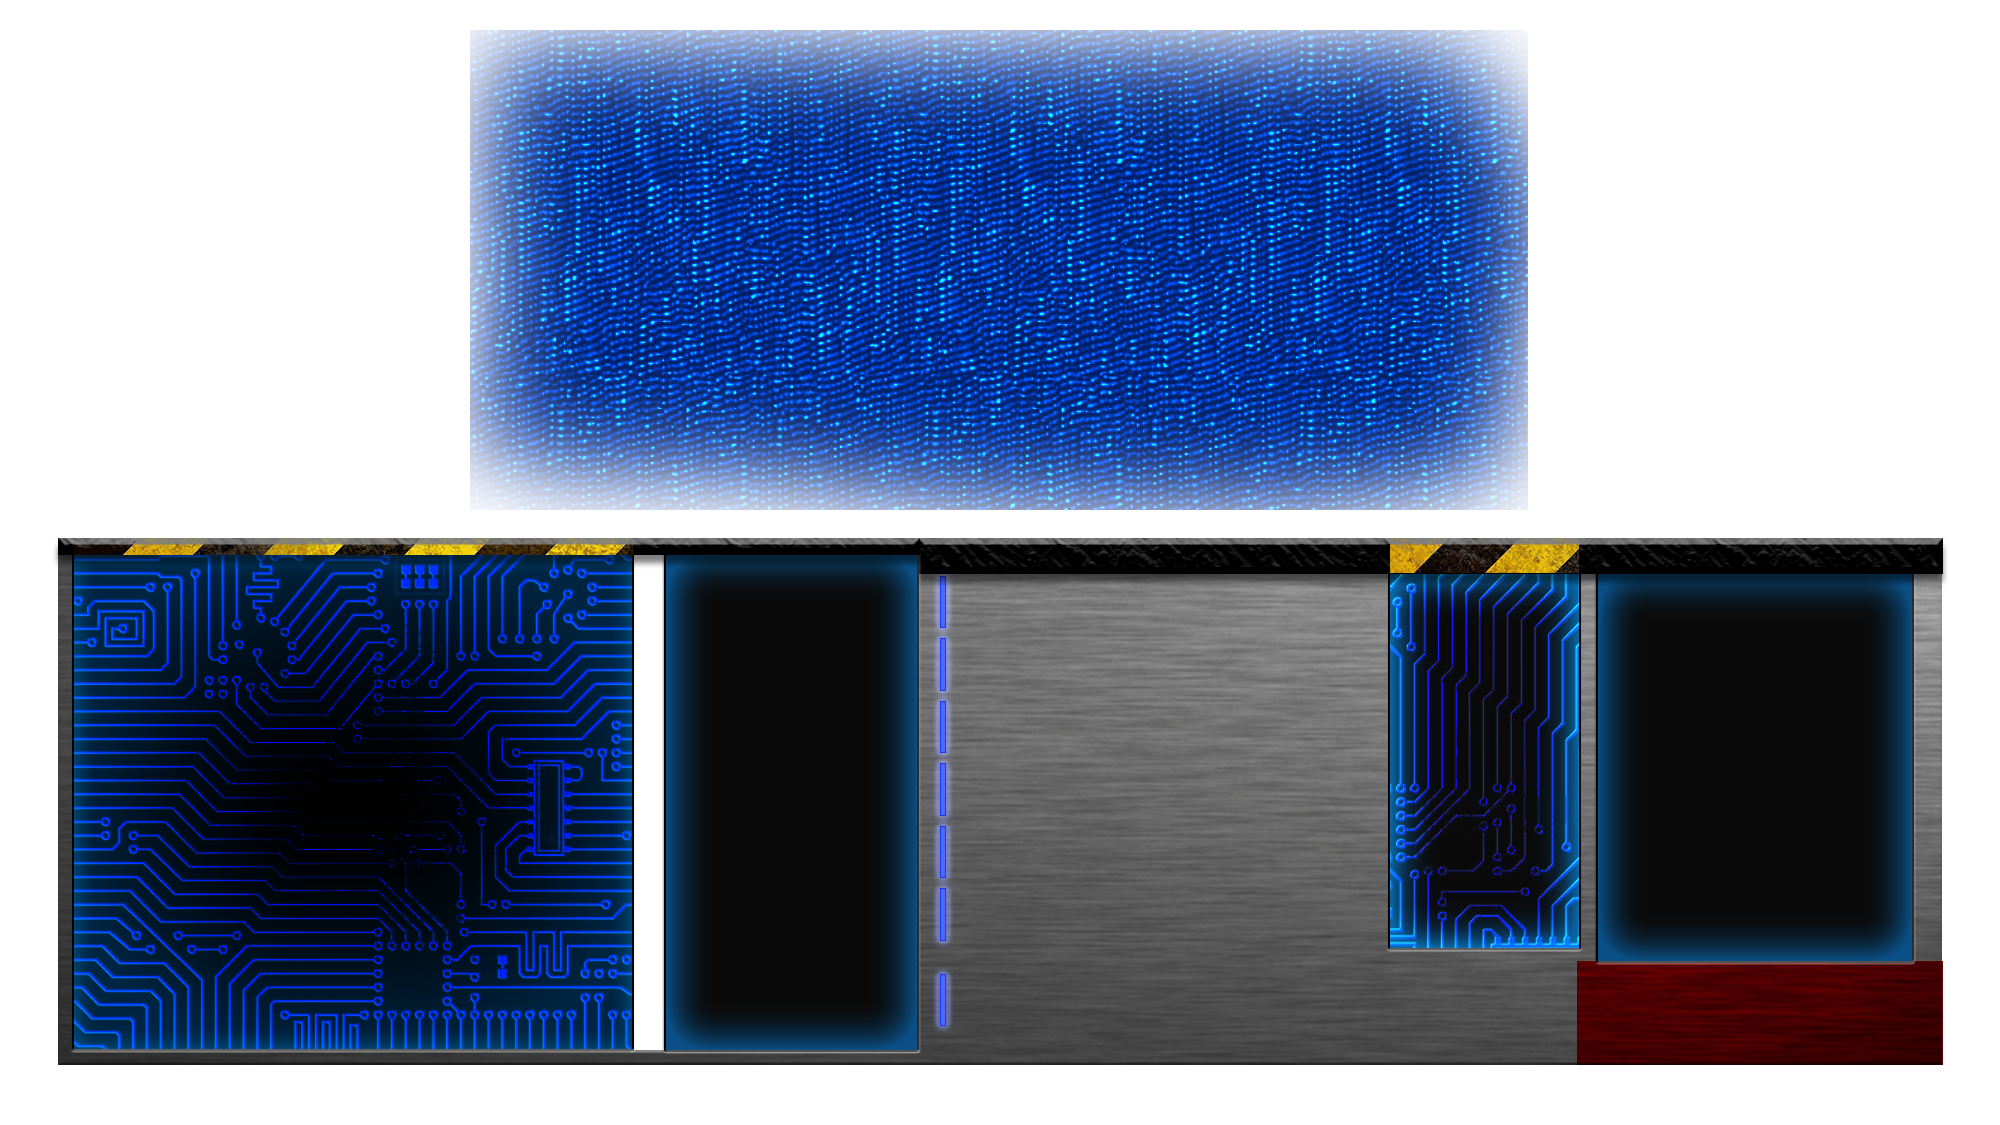
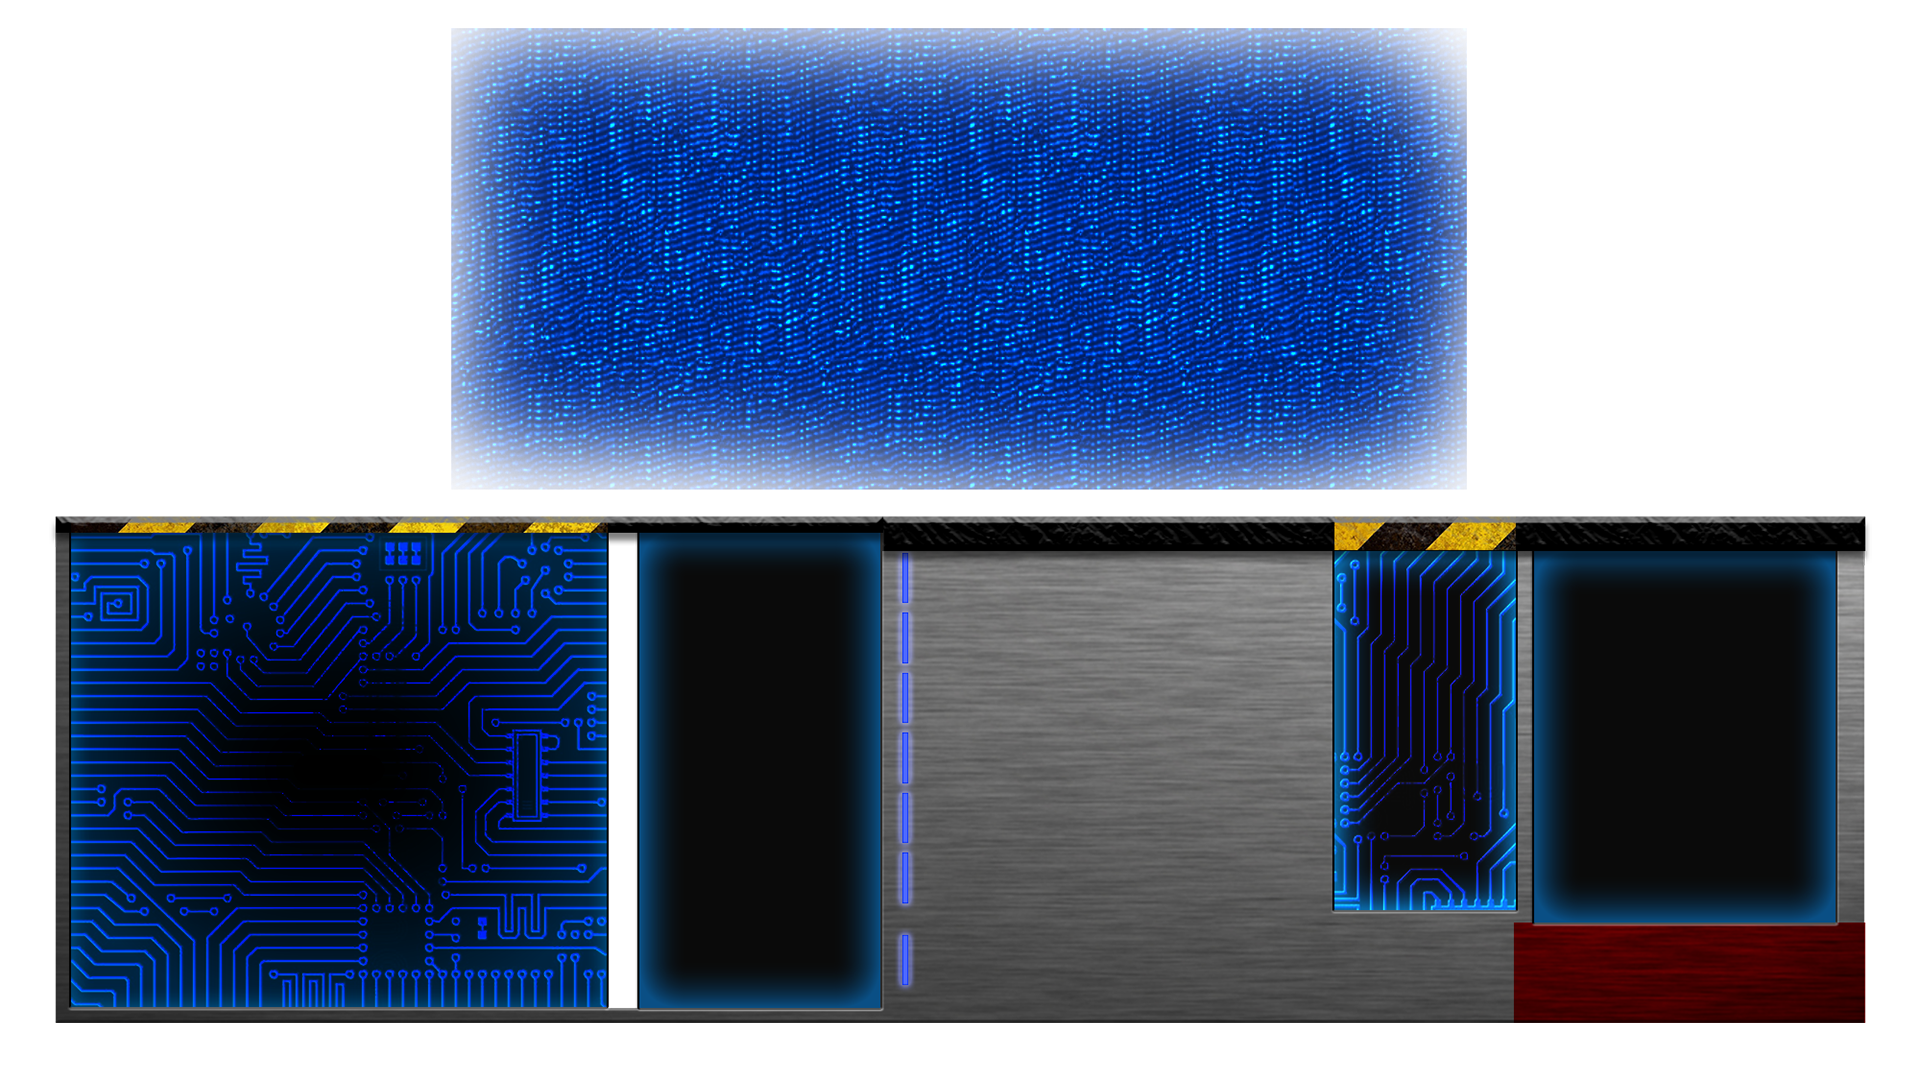
Tweaks en visual bugs verwijderd

Changed region(s): [[0.25, 0.7639, 0.2812, 0.7944], [0.25, 0.6722, 0.2812, 0.7028]]

diff --git a/Schipmenu.py b/Schipmenu.py
@@ -135,7 +135,6 @@ class Schipmenu:
                                             self.menu[4].text = "Rotate"
                                             self.menu[4].function = "Rotate"
                                             self.menu[4].active = True #activeer rotateknop
-                                        #pygame.draw.rect(GameplayConstants.screen, Colors.lightgray, pygame.Rect(1515, 550, 320, 260))
                                         text = GameplayConstants.shippartinfo(self.menunumber, self.shippartdisplayed, 0)
                                         for line in range(len(text)):
                                             Tools.draw_text(GameplayConstants.screen, text[line], 15, 1525, 563 + 20 * line, "Xolonium")
@@ -153,6 +152,7 @@ class Schipmenu:
                                             pickle_out = open(filepath, "wb")
                                             pickle.dump(Gamedata.player, pickle_out)
                                             Gamedata.halloffame.addscore("Player", Gamedata.player.score)
+                                            self.levelinfo = Missioninformation.Missioninfo(levelinforect)
                                         self.resetscreen()
                                     elif button.function == "Back":
                                         Sounds.sounds.soundcancel.play()
@@ -161,14 +161,14 @@ class Schipmenu:
                                         self.shippartselected = False
                                         self.menu[0].active = False
                                         self.menu[4].active = False
-                                        self.create_menu()
+                                        self.resetscreen()
                                     elif button.function == "Save Game":
                                         self.savegameloop()
                                         self.resetscreen()
                                     elif button.function == "Rotate":
                                         self.shippartshape = self.rotateshippart(self.shippartshape)
                                         self.partimage = pygame.transform.rotate(GameplayConstants.shippartimages[self.menunumber - 1][self.shippartdisplayed], -self.rotations * 90)
-                                        Tools.displayshippart(self.partimage, 1427, 730, self.shippartshape)
+                                        self.resetscreen()
                                     elif button.function == "Buy":
                                         self.menu[4].active = False
                                         Gamedata.player.changeship(self.shippartdisplayed)
@@ -258,10 +258,6 @@ class Schipmenu:
                                 return
                             button.update()
 
-                            #if not succes:
-                            #    Sounds.sounds.soundcancel.play()
-                            #    return
-
                 elif event.type == pygame.MOUSEMOTION:
                     for button in savegamebuttons:
                         button.update()
@@ -274,8 +270,6 @@ class Schipmenu:
         y = int((mousepos[1] - 559) / 60)
         height = len(self.shippartshape)
         width = len(self.shippartshape[0])
-        print(x)
-        print(y)
         if x >= 0 and x <= 9 - width and y >= 0 and y <= 9 - height:  # past het object in het schipdisplay
             # in dit gedeelte wordt gekeken waar de hoek van het object zit.
             if width % 2 == 1:
@@ -327,11 +321,9 @@ class Schipmenu:
 
     def resetscreen(self):
         GameplayConstants.screen.blit(self.hangarpic, dest=(0, 0))
-        #pygame.draw.rect(GameplayConstants.screen, Colors.black, self.shippartmenurect)
         self.create_menu()
         self.shipoverview()
         if self.menunumber > 0 and self.shippartdisplayed >= 0:
-            #pygame.draw.rect(GameplayConstants.screen, Colors.lightgray, pygame.Rect(1515, 550, 320, 260))
             text = GameplayConstants.shippartinfo(self.menunumber, self.shippartdisplayed, 0)
             for line in range(len(text)):
                 Tools.draw_text(GameplayConstants.screen, text[line], 13, 1555, 575 + 17 * line, "Xolonium", Colors.white)
@@ -354,7 +346,7 @@ class Schipmenu:
             energybalance = 0
         else:
             energybalance = max(0, min(1, (Gamedata.player.energyregen - Gamedata.player.energyuse) / (maxuse - Gamedata.player.energyuse)))
-        #pygame.draw.rect(GameplayConstants.screen, Colors.black, pygame.Rect(604, 572 + (432 * (1 - energybalance)), 40, 6))  # indicator op energymeter
+        pygame.draw.rect(GameplayConstants.screen, Colors.black, pygame.Rect(604, 572 + (432 * (1 - energybalance)), 40, 6))  # indicator op energymeter
 
 
     def shipoverview(self):
@@ -362,16 +354,9 @@ class Schipmenu:
         gold = Gamedata.player.gold
         pygame.draw.rect(GameplayConstants.screen, Colors.lightgray, goldrect)
         Tools.draw_text(GameplayConstants.screen, "Gold: " + str(gold), 35, 1495, 55, "Xolonium")
-
-        background = pygame.Rect(70, 530, 537, 477)
-        #pygame.draw.rect(GameplayConstants.screen, Colors.blackgray, background)
         GameplayConstants.screen.blit(self.shipimage, dest= GameplayConstants.shippartslist[5][Gamedata.player.ship][8])
         GameplayConstants.screen.blit(self.energymeter, dest=(607, 530))
-
-        textrect = pygame.Rect(640, 530, 240, 477)
-        #pygame.draw.rect(GameplayConstants.screen, Colors.lightgray, textrect)
         self.shipinfo()
-
         s2 = pygame.Surface((60, 60))
         s2.set_alpha(50)
         s2.fill(Colors.darkgreen)
@@ -429,13 +414,11 @@ class Schipmenu:
             self.submenu[x].active = True
             self.submenu[x].text = GameplayConstants.shippartslist[self.menunumber][x][0]
             self.submenu[x].update()
-        #pygame.draw.rect(GameplayConstants.screen, Colors.blackgray, pygame.Rect(900, 530, 950, 477))
         for button in self.submenu:
             button.update()
         for button in self.menu:
             button.update()
         self.shippartrect = pygame.Rect(1335, 550, 180, 360)
-        #pygame.draw.rect(GameplayConstants.screen, Colors.black, self.shippartrect)
         if self.shippartdisplayed != -1 and self.menunumber != 5:
             Tools.displayshippart(self.partimage, 1427, 730, self.shippartshape)
         elif self.shippartdisplayed != -1 and self.menunumber == 5:

diff --git a/GameplayConstants.py b/GameplayConstants.py
@@ -64,9 +64,9 @@ shippartslist = [[["Weapons"], ["Engine"], ["Shield"], ["Power"],["Ships"]],
                   ["Fission Reactor", 4, fission_reactor, 65, 75, "Based on nuclear fission, this", "reactor gives the ship massive", "amounts of energy."],
                   ["Fusion Reactor", 9, fusion_reactor, 130, 200, "A stable fussion reactor is", "fueled with water and gives an", "almost limitless supply of energy."],
                   ["Anti Matter Core", 20, anti_matter_core, 250, 500, "Harnessing Antimatter unlocks", "potential beyond imagination", "like this power generator."]],
-                 [["UE Vanguard", 0, shipdesign, 14, 50, "The first Earth ship made with", "the Alfa technology has immediately", "become the pride of the navy.", (189,620), 16],
-                 ["UE Victorious", 33, shipdesign, 20, 80, "With superior armor and extra", "weapon space, this ship can compete", "with anything the aliëns send to us.", (129,620), 14],
-                  ["UE Vicious", 75, shipdesign, 28, 130, "With superior armor and extra", "weapon space, this ship can compete", "with anything the aliëns send to us.", (129, 500), 11]]]
+                 [["UE Vanguard", 0, shipdesign, 14, 50, "The first Earth ship made with", "the Alfa technology has immediately", "become the pride of the navy.", (189,620), 20],
+                 ["UE Victorious", 33, shipdesign, 20, 80, "With superior armor and extra", "weapon space, this ship can compete", "with anything the aliëns send to us.", (129,620), 17],
+                  ["UE Vicious", 75, shipdesign, 28, 130, "With superior armor and extra", "weapon space, this ship can compete", "with anything the aliëns send to us.", (129, 500), 14]]]
 
 shippartimages = []
 for catagory in range(1, 6):
@@ -83,16 +83,14 @@ def shippartinfo(list, index, upgrade):
     price = shippartprice(list, index, upgrade)
     shippartinfo = []
     if upgrade == 0:
-        shippartinfo.append("Price: " + str(price))
         shippartinfo.append(shippartslist[list][index][0])
+        shippartinfo.append("Price: " + str(price))
     else:
         shippartinfo.append("Current level: " + str(upgrade))
         shippartinfo.append("Cost to upgrade: " + str(price))
         upgrade -= 1
     for info in range(5,8):
         shippartinfo.append(shippartslist[list][index][info])
-    #shippartinfo.append(shippartslist[list][index][6])
-    #shippartinfo.append(shippartslist[list][index][7])
     shippartinfo.append("")
     if list == 1:
         if index == 2:

diff --git a/Mobs.py b/Mobs.py
@@ -19,7 +19,7 @@ class Unitstats:
         self.hitpoints = [10,10,10,30,30,30,60,60,60,40,350,140,1500,200, 230, 80, 500]
         self.gold = [0, 0, 0, 0, 0, 0, 0, 0, 0, 100, 800, 400, 2500, 400, 500, 200, 600]
         self.pointvalue = [50,50,50,100,100,100,200,200,200,400,1500,800,5000, 800, 1000, 500,1800]
-        self.explosion = [4,4,4,7,7,7,[8,9,10],[8,9,10],[8,9,10],9,[11,9,10,8],10,[11,11,11,10,10,10],10,11,7,[9,9,10,10]]
+        self.explosion = [4,4,4,7,7,7,[8,9,10],[8,9,10],[8,9,10],8,[11,9,10,8],10,[11,11,11,10,10,10],10,11,9,[9,9,10,10]]
 
 class Mobsloading:
     def __init__(self):
@@ -88,7 +88,6 @@ class Mob(pygame.sprite.Sprite):
                 self.dead = True
 
                 if isinstance(unitstats.explosion[self.imageindex], list):
-                    print(unitstats.explosion[self.imageindex])
                     explosionlist = unitstats.explosion[self.imageindex].copy()
                     x = self.rect.x + random.randint(0, self.rect.width)
                     y = self.rect.y + random.randint(0, self.rect.height)

diff --git a/Main.py b/Main.py
@@ -64,7 +64,6 @@ class Game:
                 elif event.type == pygame.MOUSEBUTTONDOWN:
                     mouse = pygame.mouse.get_pressed()
                     if mouse[0]:
-                        #optionmenu.click(mousepos)
                         for button in self.menu:
                             if button.function == "Settings":
                                 if button.rect.collidepoint(mousepos):
@@ -118,8 +117,6 @@ class Game:
                                 if os.path.isfile(filepath):
                                     pickle_in = open(filepath, "rb")
                                     Gamedata.player = pickle.load(pickle_in)
-                                    shipmenu.shipmenuloop()
-                                    self.screenupdate()
                                 else:
                                     Gamedata.player = Player.Player()
                                 shipmenu.shipmenuloop()

diff --git a/Gameloop.py b/Gameloop.py
@@ -74,7 +74,6 @@ class Gameloop:
             hits = pygame.sprite.groupcollide(Gamedata.mobs, Gamedata.herobullets, False, False)
             for mob in hits:  # collision herobullets - mobs
                 for bullet in hits[mob]:
-                    #Gamedata.player.score += mob.getdamage(bullet.damage)
                     Gamedata.player.score += bullet.hit(mob)
             if Gamedata.hero.alive == True:
                 hits = pygame.sprite.spritecollide(Gamedata.hero, Gamedata.mobbullets, False, pygame.sprite.collide_circle)

diff --git a/Tools.py b/Tools.py
@@ -45,10 +45,8 @@ def loadgame():
     return submenu
 
 def displayshippart(image, posx, posy, shippartshape = False):
-    #background = pygame.Rect(posx - 90, posy - 180, 180, 360)
     rect = image.get_rect()
     rect.center = (posx, posy)
-    #pygame.draw.rect(GameplayConstants.screen, Colors.black, background)
     GameplayConstants.screen.blit(image, rect)
     if shippartshape:
         for height in range(len(shippartshape)):

diff --git a/Player.py b/Player.py
@@ -14,7 +14,7 @@ clock = pygame.time.Clock()
 
 class Player:
     def __init__(self):
-        self.speed = 18
+        self.speed = 20
         self.weapons = []
         self.shipparts = []
         self.score = 0
